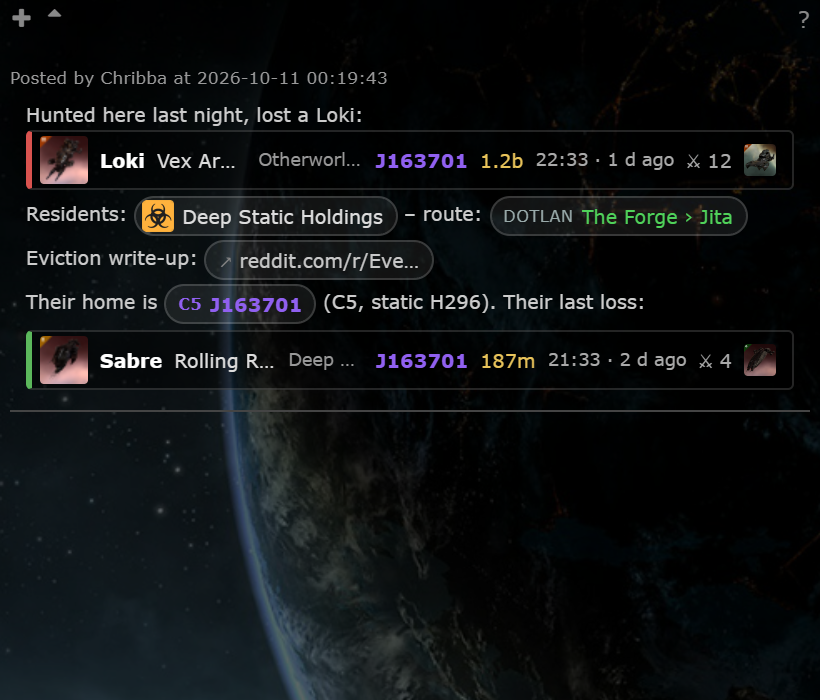
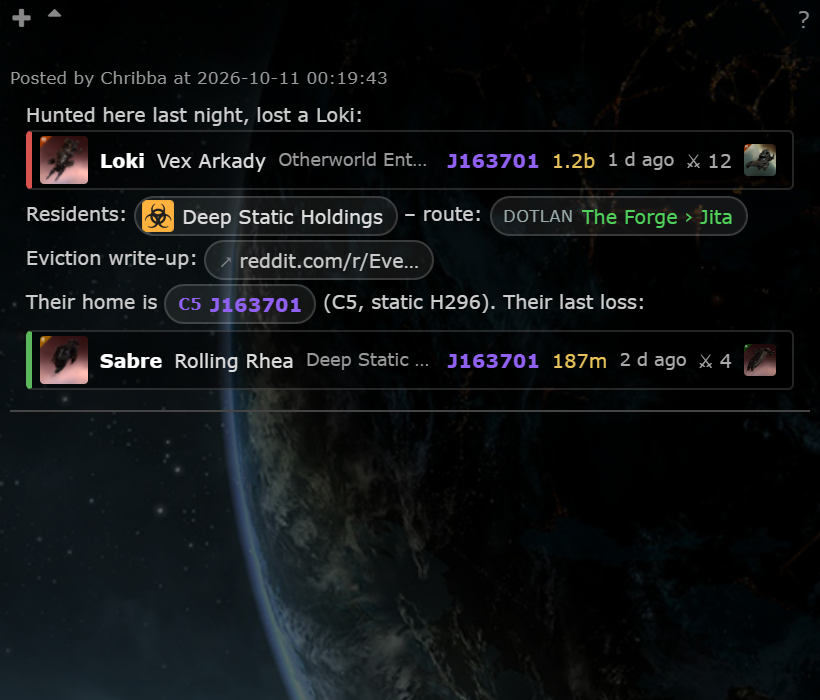
Smart notes: review round 1 fixes
- Kill card: only the relative age on the card (EVE time in the tooltip); the
  pilot name keeps its width (up to 10em), the corporation gives way first.
  New after / What's New screenshots at the default 410 px panel width.
- Worker: kill lookups wait while ESI is paused (no wasted zKillboard calls) and
  are interleaved with back-fills and stats (zk_queues_run_one: at most every
  other API slot while other work waits).
- Name IDs above 32 bits are skipped by the endpoint (no 400) and never asked for
  by the browser; names of a failed request are asked for again on the backoff.
- More everyday words and first names kept out of system-name chips (reviewed
  every single-word system name).
- Queue insert race is not an error any more.

Changed region(s): [[0.3049, 0.48, 0.7317, 0.54], [0.2744, 0.21, 0.7317, 0.24]]

diff --git a/app/js/fork/smart-notes.js b/app/js/fork/smart-notes.js
@@ -23,10 +23,21 @@ const smartNotes = {
 		"evewho.com": "evewho", "www.evewho.com": "evewho"
 	},
 	ENTITY_LABELS: { character: "Character", corporation: "Corporation", alliance: "Alliance", system: "System" },
-	/** System names that are also everyday words (or dates): never turned into chips when written in text */
-	NOT_SYSTEM_WORDS: ["Alf", "Bar", "Cat", "Col", "Dal", "Dour", "Exit", "Fade", "Forte", "Fortitude", "Gallant", "Genesis", "Gens",
-		"Half", "Ham", "Hare", "Hier", "Ides", "Jan", "Lang", "Lor", "Mai", "Mod", "Ned", "Nein", "Odin", "ORE", "Pain", "Pout", "Rand",
-		"Tar", "Toon", "Vale", "Van", "Weld"],
+	/**
+	 * System names that are also everyday words, first names or dates: never turned into chips when written in text.
+	 * From a review of every capitalised single-word name in the static data (names match case-sensitively, so only
+	 * the capitalised word is affected, e.g. at the start of a sentence).
+	 */
+	NOT_SYSTEM_WORDS: ["Abstention", "Access", "Adroit", "Alf", "Ami", "Ana", "Arena", "Ation", "Bar", "Berta", "Branch", "Cache",
+		"Canard", "Cat", "Catch", "Celerity", "Chivalric", "Col", "Couth", "Curse", "Dal", "Decon", "Decorum", "Delve", "Devoid",
+		"Domain", "Dour", "Drifters", "Equity", "Erudite", "Essence", "Esteban", "Exit", "Exordium", "Fade", "Forte", "Fortitude",
+		"Fountain", "Gallant", "Gateway", "Geminate", "Genesis", "Gens", "Half", "Halle", "Ham", "Hare", "Hier", "Ides", "Impass",
+		"Inoue", "Jan", "Janus", "Kari", "Lang", "Lari", "Lazer", "Lenity", "Lor", "Luminaire", "Lustre", "Mai", "Manifest", "Mara",
+		"Martha", "Metropolis", "Mettle", "Misha", "Mod", "Ned", "Nein", "Odette", "Odin", "ORE", "Pain", "Parses", "Parts", "Pasha",
+		"Perimeter", "Placid", "Polaris", "Pout", "Prism", "Providence", "Rand", "Ratiocinate", "Repute", "Reset", "Rigor",
+		"Sagacity", "Slays", "Solemn", "Solitude", "Stain", "Steadfast", "Syndicate", "Tar", "Tenacity", "Toon", "Tribute",
+		"Triumph", "Unknown", "Utopia", "Vale", "Valiance", "Van", "Venal", "Venerate", "Weld"],
+	MAX_ENTITY_ID: 2147483647,	// character / corporation / alliance IDs are 32-bit
 
 	// ---- Settings ----
 
@@ -89,7 +100,7 @@ const smartNotes = {
 			if ((m = /^\/kill\/(\d{1,12})\/?$/.exec(path)) && parseInt(m[1], 10) > 0) {
 				return { kind: "kill", id: parseInt(m[1], 10), url: "https://zkillboard.com/kill/" + parseInt(m[1], 10) + "/" };
 			}
-			if ((m = /^\/(character|corporation|alliance|system)\/(\d{1,12})(?:\/.*)?$/.exec(path)) && parseInt(m[2], 10) > 0) {
+			if ((m = /^\/(character|corporation|alliance|system)\/(\d{1,12})(?:\/.*)?$/.exec(path)) && smartNotes.validEntity(m[1], m[2])) {
 				return { kind: "zkill", type: m[1], id: parseInt(m[2], 10), url: url.href };
 			}
 		} else if (site === "dotlan") {
@@ -103,11 +114,17 @@ const smartNotes = {
 				if (region) { return { kind: "dotlan", label: region + (system ? " › " + system : ""), system: system || null, url: url.href }; }
 			}
 		} else if (site === "evewho") {
-			if ((m = /^\/(character|corporation|alliance)\/(\d{1,12})\/?$/.exec(path)) && parseInt(m[2], 10) > 0) {
+			if ((m = /^\/(character|corporation|alliance)\/(\d{1,12})\/?$/.exec(path)) && smartNotes.validEntity(m[1], m[2])) {
 				return { kind: "evewho", type: m[1], id: parseInt(m[2], 10), url: url.href };
 			}
 		}
 		return { kind: "link", label: smartNotes.shortLabel(url), url: url.href };
+	},
+
+	/** A plausible entity ID: positive, and 32-bit for characters / corporations / alliances (the server skips others) */
+	validEntity: function(type, id) {
+		const n = parseInt(id, 10);
+		return n > 0 && (type === "system" || n <= smartNotes.MAX_ENTITY_ID);
 	},
 
 	/** Whether a link's text is just its URL (as the editor's autolink writes it), so replacing it loses nothing */
@@ -311,7 +328,7 @@ const smartNotes = {
 			if (model.victimCorp) { card.appendChild(el(doc, "span", { "class": "sn-corp" }, [model.victimCorp])); }
 			if (model.systemName) { card.appendChild(el(doc, "span", { "class": "sn-sys " + (model.systemClass || "") }, [model.systemName])); }
 			if (model.value) { card.appendChild(el(doc, "span", { "class": "sn-isk" }, [model.value])); }
-			if (model.time) { card.appendChild(el(doc, "span", { "class": "sn-time" }, [model.time + " · " + model.age])); }
+			if (model.age) { card.appendChild(el(doc, "span", { "class": "sn-time" }, [model.age])); }	// EVE time is in the tooltip
 			card.appendChild(el(doc, "span", { "class": "sn-att" }, [String(model.attackers)]));
 			if (model.finalBlowIcon) { card.appendChild(el(doc, "img", { "class": "sn-icon sn-fb-icon", src: model.finalBlowIcon, alt: "", loading: "lazy" })); }
 			const title = [
@@ -597,10 +614,10 @@ const smartNotes = {
 				entry.state = "failed";	// failed / full / unavailable: the plain link
 			}
 		});
-		// Names the worker is still resolving: ask again (with the kills whose names are missing) on the same backoff,
-		// at most RETRY_MS.length rounds in a row
+		// Names the worker is still resolving, or names of a request that failed: ask again (with the kills whose names
+		// are missing) on the same backoff, at most RETRY_MS.length rounds in a row
 		if (response && !response.namesPending) { smartNotes.nameTries = 0; }
-		if (response && response.namesPending && smartNotes.nameTries < smartNotes.RETRY_MS.length) {
+		if ((response ? response.namesPending : names.length > 0) && smartNotes.nameTries < smartNotes.RETRY_MS.length) {
 			const delay = smartNotes.RETRY_MS[smartNotes.nameTries++];
 			const again = names.filter(function(id) { return !Object.prototype.hasOwnProperty.call(smartNotes.names, String(id)); });
 			const okKills = ids.filter(function(id) { return smartNotes.kills[id] && smartNotes.kills[id].state === "ok"; });

diff --git a/app/js-test/fork/smart-notes.test.js b/app/js-test/fork/smart-notes.test.js
@@ -13,7 +13,10 @@ const SYSTEMS = {
 	30000001: { name: 'Tanoo' },
 	30045349: { name: 'New Caldari' },	// two words: never matched in text
 	30001000: { name: 'Exit' },	// everyday words: never matched in text
-	30001001: { name: 'Jan' }
+	30001001: { name: 'Jan' },
+	30001002: { name: 'Access' },
+	30001003: { name: 'Perimeter' },
+	30001004: { name: 'Reset' }
 };
 const INFO = {
 	31002012: { name: 'J163701', cls: 'wh class-5', type: 'C5' },
@@ -112,6 +115,10 @@ describe('Smart notes', () => {
 				{ kind: 'evewho', type: 'corporation', id: 98388312, url: 'https://evewho.com/corporation/98388312' });
 			assert.strictEqual(smartNotes.classify('https://www.evewho.com/character/1/').type, 'character');
 			assert.strictEqual(smartNotes.classify('https://evewho.com/pilot/Bob').kind, 'link');
+			// character / corporation / alliance IDs are 32-bit; larger ones are ordinary links (never a name request)
+			assert.strictEqual(smartNotes.classify('https://evewho.com/character/2147483648').kind, 'link');
+			assert.strictEqual(smartNotes.classify('https://zkillboard.com/corporation/99999999999/').kind, 'link');
+			assert.strictEqual(smartNotes.classify('https://zkillboard.com/character/2147483647/').kind, 'zkill');
 		});
 		it('short labels: domain and first path segment', () => {
 			assert.strictEqual(smartNotes.classify('https://www.reddit.com/r/Eve/comments/1abcd23/wormhole_eviction/').label, 'reddit.com/r/Eve…');
@@ -150,6 +157,10 @@ describe('Smart notes', () => {
 			assert.strictEqual(index['New Caldari'], undefined);
 			assert.strictEqual(index.Exit, undefined);
 			assert.deepStrictEqual(names('Exit via Jita on Jan 5'), ['Jita']);
+			assert.deepStrictEqual(names('Access is via Perimeter. Reset at DT.'), []);
+			// the real list covers the reviewed words
+			['Access', 'Perimeter', 'Reset', 'Arena', 'Equity', 'Gateway', 'Parts', 'Prism', 'Triumph', 'Utopia', 'Polaris', 'Repute', 'Lenity',
+				'Mettle', 'Rigor', 'Solemn', 'Adroit', 'Erudite', 'Lustre', 'Martha', 'Janus'].forEach(w => assert.ok(smartNotes.NOT_SYSTEM_WORDS.indexOf(w) >= 0, w));
 		});
 		it('matches whole words', () => {
 			assert.deepStrictEqual(names('Home is J163701, staging in Jita. Then 1DQ1-A!'), ['J163701', 'Jita', '1DQ1-A']);
@@ -364,7 +375,7 @@ describe('Smart notes', () => {
 			assert.deepStrictEqual(card.childNodes.map(c => c.getAttribute('class')),
 				['sn-icon sn-ship-icon', 'sn-ship', 'sn-victim', 'sn-corp', 'sn-sys wh class-5', 'sn-isk', 'sn-time', 'sn-att', 'sn-icon sn-fb-icon']);
 			assert.deepStrictEqual(card.childNodes.slice(1, 8).map(c => c.textContent),
-				['Loki', '</span><b>x</b>', 'Deep Static Holdings', 'J163701', '1.2b', '09:41 · 1 d ago', '12']);
+				['Loki', '</span><b>x</b>', 'Deep Static Holdings', 'J163701', '1.2b', '1 d ago', '12']);
 			assert.ok(card.innerHTML.includes('&lt;/span&gt;&lt;b&gt;x&lt;/b&gt;'));
 			assert.ok(card.getAttribute('title').includes('Our loss'));
 			assert.strictEqual(body.childNodes[1].outerHTML,
@@ -473,6 +484,18 @@ describe('Smart notes', () => {
 				requests[requests.length - 1].done({ kills: { [100 + i]: { status } }, names: {} });
 				assert.strictEqual(smartNotes.kills[100 + i].state, 'failed', status);
 			});
+			assert.deepStrictEqual(timers, []);
+		});
+
+		it('a failed request asks for its names again on the backoff', () => {
+			smartNotes.wantName(77);
+			runTimers();
+			requests[0].fail();
+			assert.deepStrictEqual(runTimers(), [3000]);
+			runTimers();
+			assert.deepStrictEqual(requests[1].req.data, { ids: '', names: '77' });
+			requests[1].done({ kills: {}, names: { 77: 'Bob' }, namesPending: false });
+			assert.strictEqual(smartNotes.names[77], 'Bob');
 			assert.deepStrictEqual(timers, []);
 		});
 

diff --git a/app/css/fork/smart-notes.css b/app/css/fork/smart-notes.css
@@ -69,12 +69,13 @@
 .commentBody a.sn-kill .sn-ship-icon { width: 24px; height: 24px; }
 .commentBody a.sn-kill .sn-fb-icon { opacity: 0.85; }
 .commentBody a.sn-kill .sn-ship { font-weight: bold; color: #fff; }
-/* When the panel is narrow the corporation gives way first, then the pilot; ship, system, value and time stay */
+/* When the panel is narrow the corporation gives way (down to nothing) before anything else; ship, pilot (up to
+   10em), system, value and age stay. The full line, with the EVE time, is in the tooltip. */
 .commentBody a.sn-kill .sn-ship { flex: 0 0 auto; }
 .commentBody a.sn-kill .sn-victim,
 .commentBody a.sn-kill .sn-corp { overflow: hidden; text-overflow: ellipsis; }
-.commentBody a.sn-kill .sn-victim { flex: 0 1 auto; min-width: 4em; }
-.commentBody a.sn-kill .sn-corp { flex: 0 4 auto; min-width: 1.5em; color: #999; font-size: 0.92em; }
+.commentBody a.sn-kill .sn-victim { flex: 0 0 auto; max-width: 10em; }
+.commentBody a.sn-kill .sn-corp { flex: 0 1 auto; min-width: 0; color: #999; font-size: 0.92em; }
 .commentBody a.sn-kill .sn-sys { font-weight: bold; flex: 0 0 auto; }
 .commentBody a.sn-kill .sn-isk { color: #e8c35a; flex: 0 0 auto; }
 .commentBody a.sn-kill .sn-time { color: #aaa; flex: 0 0 auto; font-size: 0.92em; }

diff --git a/zkill/lookup.php b/zkill/lookup.php
@@ -4,7 +4,8 @@
 // A note can link any kill, also one the stream never saw or that was pruned. Endpoints (public/zkill_kill.php) call
 // zk_lookup_request(): kills already in zkill_killmails are answered from there, the rest are queued in
 // zkill_kill_lookup (bounded: ZK_LOOKUP_MAX_PER_USER per user, ZK_LOOKUP_MAX_QUEUED overall). The worker drains the
-// queue with zk_lookup_run_one() after the stream and before back-fills, within the same zKillboard API budget
+// queue with zk_lookup_run_one() after the stream, interleaved with back-fills and stats (zk_queues_run_one(): at
+// most every other API slot while they have work), only while both zKillboard and ESI may be called, within the same budget
 // (ZKILL_API_INTERVAL): zKillboard /api/killID/<id>/ for the hash, ESI /killmails/<id>/<hash>/ for the killmail,
 // stored with source 'lookup'. A failed lookup is retried after ZK_LOOKUP_RETRY seconds, at most ZK_LOOKUP_MAX_ATTEMPTS
 // times. Looked-up kills are kept ZK_LOOKUP_KEEP_DAYS days after they were fetched (zk_prune()), then fetched again
@@ -100,8 +101,13 @@ function zk_lookup_request(PDO $db, array $killIDs, $userID, $feedEnabled = null
             $queued++;
             $queuedByUser++;
             if ($decision['action'] === 'insert') {
-                $db->prepare("INSERT INTO zkill_kill_lookup (killID, status, attempts, requestedBy, requestedAt) VALUES (?, 'queued', 0, ?, ?)")
-                    ->execute([$killID, $userID, $nowSql]);
+                try {
+                    $db->prepare("INSERT INTO zkill_kill_lookup (killID, status, attempts, requestedBy, requestedAt) VALUES (?, 'queued', 0, ?, ?)")
+                        ->execute([$killID, $userID, $nowSql]);
+                } catch (PDOException $error) {
+                    // Another request queued it a moment ago (portable instead of INSERT IGNORE, for the SQLite tests)
+                    if ($error->getCode() !== '23000') throw $error;
+                }
             } else {
                 // attempts first: MySQL evaluates SET left to right (a done row starts over, a failed one keeps counting)
                 $db->prepare("UPDATE zkill_kill_lookup SET attempts = CASE WHEN status = 'done' THEN 0 ELSE attempts END,
@@ -151,7 +157,8 @@ function zk_lookup_run_one(PDO $db) {
         $staleChecked = $now;
         zk_lookup_housekeeping($db, $now);
     }
-    if (!zk_http_ready('zkillboard.com')) return null;
+    // Both hosts must be free: with ESI paused, asking zKillboard for the hash would only be wasted and repeated
+    if (!zk_http_ready('zkillboard.com') || !zk_http_ready('esi.evetech.net')) return null;
     $killID = $db->query("SELECT killID FROM zkill_kill_lookup WHERE status = 'queued' ORDER BY requestedAt, killID LIMIT 1")->fetchColumn();
     if ($killID === false) return null;
     $killID = (int) $killID;
@@ -206,4 +213,27 @@ function zk_lookup_run_one(PDO $db) {
         if ($error instanceof PDOException) throw $error;
         return "kill lookup $killID failed: " . $error->getMessage();
     }
+}
+
+/**
+ * Worker: one step of the zKillboard API queues. Lookups (a note is open and waiting) go first, but after a lookup
+ * the next step lets back-fills and stats go first, so a stream of lookups can at most take every other API slot
+ * from the System Kill Feed and System Threat. With nothing else waiting, lookups run back to back.
+ * @param array|null $steps test hook: ['lookup' => callable, 'backfill' => callable, 'stats' => callable], each
+ *                          callable($db) returning a log line or null (nothing done)
+ * @return string|null log line of the step that ran
+ */
+function zk_queues_run_one(PDO $db, ?array $steps = null) {
+    static $lookupNext = true;
+    $steps = $steps ?? ['lookup' => 'zk_lookup_run_one', 'backfill' => 'zk_backfill_run_one', 'stats' => 'zk_stats_run_one'];
+    $order = $lookupNext ? ['lookup', 'backfill', 'stats'] : ['backfill', 'stats', 'lookup'];
+    foreach ($order as $name) {
+        $line = $steps[$name]($db);
+        if ($line !== null) {
+            $lookupNext = $name !== 'lookup';
+            return $line;
+        }
+    }
+    $lookupNext = true;   // nothing to do anywhere: lookups first again
+    return null;
 }

diff --git a/zkill/tests/lookup_test.php b/zkill/tests/lookup_test.php
@@ -219,6 +219,63 @@ for ($i = 0; $i < 4; $i++) { $ready(); zk_lookup_run_one($db); }
 check('run: oldest request first, failed rows skipped', $calls, [
     'https://zkillboard.com/api/killID/2/', 'https://zkillboard.com/api/killID/3/', 'https://zkillboard.com/api/killID/1/']);
 
+// ESI paused (error limit, rate limit, block): no zKillboard call either, the lookup waits
+$db = lookup_db();
+lookup_add($db, 131234567);
+$replies = [$zkillURL => [200, json_encode([['killmail_id' => 131234567, 'zkb' => $zkb]]), []], $esiURL => [200, json_encode($esi), []]];
+$ready();
+$calls = [];
+zk_http_pause('esi.evetech.net', microtime(true) + 600);
+check('run: nothing while ESI is paused', [zk_lookup_run_one($db), $calls, lookup_row($db, 131234567)['status'], (int) lookup_row($db, 131234567)['attempts']],
+    [null, [], 'queued', 0]);
+$ready();
+check('run: goes ahead once ESI is free', [zk_lookup_run_one($db) !== null, count($calls), lookup_row($db, 131234567)['status']], [true, 2, 'done']);
+
+// Race: another request queues the same kill between our read and our insert: no error, still queued
+class RacyPDO extends PDO {
+    public $race = null;
+    #[\ReturnTypeWillChange]
+    public function prepare($query, $options = []) {
+        if ($this->race && strpos($query, 'SELECT COUNT(*) FROM zkill_kill_lookup WHERE requestedBy') === 0) {
+            $race = $this->race;
+            $this->race = null;
+            $race($this);
+        }
+        return parent::prepare($query, $options);
+    }
+}
+$racy = new RacyPDO('sqlite::memory:');
+$racy->setAttribute(PDO::ATTR_ERRMODE, PDO::ERRMODE_EXCEPTION);
+$racy->exec("CREATE TABLE zkill_kill_lookup (killID INTEGER PRIMARY KEY, status TEXT NOT NULL DEFAULT 'queued', attempts INTEGER NOT NULL DEFAULT 0,
+    requestedBy INTEGER NOT NULL DEFAULT 0, requestedAt TEXT NOT NULL, attemptedAt TEXT NULL, error TEXT NOT NULL DEFAULT '')");
+$racy->exec('CREATE TABLE zkill_killmails (killID INTEGER, systemID INTEGER, killTime TEXT, victimCharacterID INTEGER, victimCorporationID INTEGER,
+    victimAllianceID INTEGER, victimShipTypeID INTEGER, finalBlowCharacterID INTEGER, finalBlowCorporationID INTEGER, finalBlowAllianceID INTEGER,
+    finalBlowShipTypeID INTEGER, attackerCount INTEGER, attackerTotal INTEGER, totalValue REAL, npc INTEGER, solo INTEGER, awox INTEGER)');
+$racy->race = function ($db) { lookup_add($db, 4242, ['requestedBy' => 99]); };
+check('race: duplicate insert is not an error', zk_lookup_request($racy, [4242], 7, true)[4242], ['status' => 'queued']);
+check('race: the other request keeps its row', [(int) lookup_row($racy, 4242)['requestedBy'], (int) $racy->query('SELECT COUNT(*) FROM zkill_kill_lookup')->fetchColumn()], [99, 1]);
+
+// --- zk_queues_run_one: lookups take at most every other slot while back-fills / stats wait ---
+$ran = [];
+$work = ['lookup' => 100, 'backfill' => 2, 'stats' => 2];
+$steps = [];
+foreach (array_keys($work) as $name) {
+    $steps[$name] = function () use ($name, &$work, &$ran) {
+        if ($work[$name] <= 0) return null;
+        $work[$name]--;
+        $ran[] = $name;
+        return $name;
+    };
+}
+zk_queues_run_one($db, ['lookup' => function () { return null; }, 'backfill' => function () { return null; }, 'stats' => function () { return null; }]);   // reset the turn
+for ($i = 0; $i < 10; $i++) zk_queues_run_one($db, $steps);
+check('queues: lookups alternate with back-fills and stats while they wait, then run back to back', $ran,
+    ['lookup', 'backfill', 'lookup', 'backfill', 'lookup', 'stats', 'lookup', 'stats', 'lookup', 'lookup']);
+$ran = [];
+$work = ['lookup' => 0, 'backfill' => 3, 'stats' => 1];
+for ($i = 0; $i < 5; $i++) zk_queues_run_one($db, $steps);
+check('queues: without lookups, back-fills then stats as before', $ran, ['backfill', 'backfill', 'backfill', 'stats']);
+
 // Housekeeping: abandoned running rows go back in the queue
 $db = lookup_db();
 lookup_add($db, 1, ['status' => 'running', 'attemptedAt' => gmdate('Y-m-d H:i:s', time() - 600)]);

diff --git a/zkill_feed.worker.php b/zkill_feed.worker.php
@@ -6,8 +6,8 @@
 // pooled module in zkill/ (one HTTP client, rate limiter, set of tables). Per kill it
 //   - stores every kill in `zkill_killmails` (System Kill Feed and other readers, ZKILL_RETENTION_HOURS), and
 //   - stores kills in systems that are on someone's chain in `zkill_kills` (Kill Reporting's alert log, 24 h).
-// Between kills it drains the single-kill lookup queue (Smart notes kill cards), then the back-fill queue (zKillboard
-// API, ZKILL_API_INTERVAL), then the per-system stats queue
+// Between kills it drains the single-kill lookup queue (Smart notes kill cards, at most every other API slot while
+// other work waits), the back-fill queue (zKillboard API, ZKILL_API_INTERVAL), then the per-system stats queue
 // (System Threat, same API budget, lowest priority) and the ESI name queue.
 // Browsers never talk to zKillboard; they poll public/kills.php and public/system_kills.php, which read the tables.
 //
@@ -213,9 +213,7 @@ function zkf_prune(PDO $db) {
 function zkf_tick(PDO $db) {
     static $lastNames = 0;
     try {
-        $line = zk_lookup_run_one($db);                      // Smart notes: a note is waiting for this kill
-        if ($line === null) $line = zk_backfill_run_one($db);
-        if ($line === null) $line = zk_stats_run_one($db);   // System Threat stats: only when no back-fill is waiting
+        $line = zk_queues_run_one($db);   // kill lookups (Smart notes), back-fills, System Threat stats: zkill/lookup.php   // System Threat stats: only when no back-fill is waiting
         if ($line !== null) zkf_log($line);
         if (time() - $lastNames >= ZKF_NAMES_EVERY) {
             $lastNames = time();

diff --git a/zkill/tests/zkill_kill_endpoint_test.php b/zkill/tests/zkill_kill_endpoint_test.php
@@ -85,7 +85,9 @@ check('zero: 400', call(['ids' => '0'])[0], 400);
 check('array parameter: 400', call(['ids' => ['1']])[0], 400);
 check('21 IDs: 400', call(['ids' => implode(',', range(BASE + 1, BASE + 21))])[0], 400);
 check('21 names: 400', call(['names' => implode(',', range(ENTITY + 1, ENTITY + 21))])[0], 400);
-check('names above 32 bits: 400', call(['names' => '2147483648'])[0], 400);
+[$status, $body] = call(['ids' => (string) KILL, 'names' => '2147483648,' . (ENTITY + 1)]);
+check('a name above 32 bits is skipped, the rest still answers', [$status, $body['kills'][(string) KILL]['status'], $body['names'][(string) (ENTITY + 1)] ?? null,
+    isset($body['names']['2147483648']), (int) $mysql->query('SELECT COUNT(*) FROM zkill_names WHERE id = 2147483648')->fetchColumn()], [200, 'ok', 'Some Corp', false, 0]);
 check('20 IDs (and duplicates, spaces, empty parts): 200', call(['ids' => implode(', ', range(BASE + 1, BASE + 20)) . ',,' . (BASE + 1)])[0], 200);
 cleanup($mysql);
 seed($mysql);

diff --git a/public/zkill_kill.php b/public/zkill_kill.php
@@ -65,9 +65,8 @@ if ($_SERVER['REQUEST_METHOD'] !== 'GET') {
 $killIDs = zkill_kill_ids('ids', ZK_LOOKUP_MAX_IDS);
 $nameIDs = zkill_kill_ids('names', ZKILL_KILL_MAX_NAMES);
 if (!$killIDs && !$nameIDs) zkill_kill_fail(400, 'ids or names is required');
-foreach ($nameIDs as $id) {
-	if ($id > ZKILL_KILL_MAX_ENTITY_ID) zkill_kill_fail(400, 'names must be character, corporation or alliance IDs');
-}
+// Character / corporation / alliance IDs are 32-bit: larger ones are skipped (not an error, so the kills still load)
+$nameIDs = array_values(array_filter($nameIDs, function ($id) { return $id <= ZKILL_KILL_MAX_ENTITY_ID; }));
 
 // "Our" side for the card colour: the character's corporation and alliance, the server's friendly corporations
 // (as Kill Reporting) and the owner of the active corporation / alliance mask

diff --git a/changes/2026-10-11-smart-notes/README.md b/changes/2026-10-11-smart-notes/README.md
@@ -5,7 +5,7 @@
 ## Description
 
 Links in system notes now render as compact cards and chips: a zKillboard kill link becomes a one-line kill card
-(victim ship, pilot and corporation, system with class colour, ISK value, EVE time and age, attackers, final blow ship;
+(victim ship, pilot and corporation, system with class colour, ISK value, age (EVE time in the tooltip), attackers, final blow ship;
 red edge for our loss, green for our kill), zKillboard character / corporation / alliance / system links, Dotlan and
 EveWho links become chips, other long links are shortened, bare https URLs in plain text become links (or cards), and
 system names written in the text (`J163701`, `Jita`) become system chips. The stored note is never changed: editing
@@ -35,15 +35,17 @@ notes as chips" (`options.smartNotes.systemNames`). Applied on Save, back on aft
   host allow-list (`zkillboard.com`, `evemaps.dotlan.net`, `evewho.com`, with or without `www.` where it exists) are
   recognised; image URLs only from numeric IDs. Long links elsewhere: domain + first path segment, full URL in the
   tooltip. System names: single-word names from the static data (J-codes in any case, other names exactly), whole words
-  only, not inside links, code or URLs, minus a few everyday words (`Exit`, `Jan`, `Half` ...); a click views the
+  only, not inside links, code or URLs, minus everyday words and first names found by reviewing every single-word name (`Exit`, `Access`, `Perimeter`,
+  `Reset`, `Jan` ...); a click views the
   system in Tripwire. A zKillboard system chip views the system in Tripwire when it is on the chain map, else opens
   zKillboard.
 - `public/zkill_kill.php` (new): `?ids=` (max 20) and `?names=` (max 20), session + mask required, GET only. Reads
   `zkill_killmails` / `zkill_names`; kills that are not stored are queued in the new `zkill_kill_lookup` table
   (`zkill/lookup.php`, caps 200 per user / 2000 overall) and answered `queued`. The browser asks again after 3 s, 10 s
   and 30 s, then shows the plain link. With `ZKILL_FEED_ENABLED=false` nothing is queued.
-- Worker (`zkill_feed.worker.php`): `zk_lookup_run_one()` runs first in each idle pass (before back-fills), within the
-  same `ZKILL_API_INTERVAL` budget: zKillboard `/api/killID/<id>/` for the hash, ESI `/killmails/<id>/<hash>/`, stored
+- Worker (`zkill_feed.worker.php`): `zk_queues_run_one()` interleaves `zk_lookup_run_one()` with back-fills and stats
+  (lookups first, but at most every other API slot while other work waits), only while both zKillboard and ESI may be
+  called, within the same `ZKILL_API_INTERVAL` budget: zKillboard `/api/killID/<id>/` for the hash, ESI `/killmails/<id>/<hash>/`, stored
   with source `lookup`. Retried after 10 minutes, at most 3 attempts. `zk_prune()` keeps looked-up kills 7 days after
   they arrived (they are usually older than the retention) and prunes finished lookups after 7 days.
 - Tests: `app/js-test/fork/smart-notes.test.js` (URL recognition incl. look-alike hosts, DOM replacement, escaping,

diff --git a/changes/README.md b/changes/README.md
@@ -5,7 +5,7 @@ Every change to this fork gets an entry here. See [AGENTS.md](../AGENTS.md) for 
 
 | Date | Feature | Summary |
 | --- | --- | --- |
-| 2026-10-11 | [Smart notes](2026-10-11-smart-notes/README.md) | zKillboard kill links in system notes render as one-line kill cards (ship, pilot, corp, system, ISK, time, attackers; red/green edge for our loss/kill), zKillboard/Dotlan/EveWho links as chips, long links shortened, bare URLs and system names in text as links/chips; render time only (stored note unchanged); kill data from new `public/zkill_kill.php` (DB, else queued in `zkill_kill_lookup` for the pooled worker); Settings > General Preferences > Smart notes |
+| 2026-10-11 | [Smart notes](2026-10-11-smart-notes/README.md) | zKillboard kill links in system notes render as one-line kill cards (ship, pilot, corp, system, ISK, age, attackers; red/green edge for our loss/kill), zKillboard/Dotlan/EveWho links as chips, long links shortened, bare URLs and system names in text as links/chips; render time only (stored note unchanged); kill data from new `public/zkill_kill.php` (DB, else queued in `zkill_kill_lookup` for the pooled worker); Settings > General Preferences > Smart notes |
 | 2026-10-11 | [Fitted jump mass](2026-10-10-auto-mass-logging/README.md) | Tracked jumps through a mapped hole log the ship's real mass from its fitting (ESI assets: plates, prop module, Higgs) and ask hot or cold; the mass dialog shows fit/hull per jump and lets you correct hot/cold, and the rolling calculator uses the fitted masses; new optional scope `esi-assets.read_assets.v1` behind `ENABLE_ASSETS_SCOPE` (default off; enable it on the CCP app first, then re-add tracking characters), toggles in Chain Map Settings |
 | 2026-10-11 | [Jumps lost while a refresh is in flight](2026-10-11-sync-tracking-race/README.md) | Fix: a jump ESI reported while `refresh.php` was in flight was wiped unsent (upstream `tripwire.sync` resets pending data on response), so no `jumps` row, automapper or fitted-mass report; new `app/js/fork/sync-pending.js` puts back what was written after the send; upstream bug, no upstream file touched |
 | 2026-10-11 | [Paste a d-scan anywhere](2026-10-11-dscan-paste-detect/README.md) | Ctrl+V of a d-scan outside a text box opens the d-scan dialog for the viewed system with the scan filled in (not shared until Share) instead of the "Paste detected / delete missing sigs" notice; Settings > General Preferences > D-scan & local intel |

diff --git a/docker/README.md b/docker/README.md
@@ -256,7 +256,7 @@ Data flow:
    `source = 'lookup'`, are kept 7 days after they arrived), finished back-fill rows older than the retention, finished
    lookups older than 7 days, stale names.
 5. **System stats.** Lowest priority, after back-fills: see [System stats](#system-stats-system-threat).
-6. **Single-kill lookups.** First in each idle pass, before back-fills: see [Smart notes](#smart-notes).
+6. **Single-kill lookups.** Interleaved with back-fills and stats (at most every other API slot while they wait): see [Smart notes](#smart-notes).
 
 `public/system_kills.php` (logged-in users, GET only):
 
@@ -318,8 +318,10 @@ red / green edge from the session's corporation and alliance, `KILL_REPORT_FRIEN
 corporation / alliance mask). Any other kill is queued in `zkill_kill_lookup` (`zkill/lookup.php`) and answered
 `queued`; the browser asks again after 3, 10 and 30 seconds, then shows the plain link. Caps: 200 queued / running
 lookups per user, 2000 overall (above them: `full`, plain link). With `ZKILL_FEED_ENABLED=false` nothing is queued
-(`unavailable`). The worker runs `zk_lookup_run_one()` first in each idle pass, within the same `ZKILL_API_INTERVAL`
-budget: `https://zkillboard.com/api/killID/<id>/` for the hash, then ESI `/killmails/<id>/<hash>/`, stored with
+(`unavailable`). Name IDs above 32 bits are skipped; asked-for names are queued only while fewer than 200 names are
+pending. The worker's `zk_queues_run_one()` interleaves `zk_lookup_run_one()` with back-fills and stats (lookups first,
+but never twice in a row while other work waits), within the same `ZKILL_API_INTERVAL` budget and only while both
+zKillboard and ESI may be called: `https://zkillboard.com/api/killID/<id>/` for the hash, then ESI `/killmails/<id>/<hash>/`, stored with
 `source = 'lookup'` regardless of the retention and kept 7 days after it arrived. A failed lookup is retried after 10
 minutes, at most 3 attempts; a `running` lookup older than 5 minutes is queued again. The browser never calls
 zKillboard, Dotlan or EveWho; it only links to them and loads images from `images.evetech.net`.
